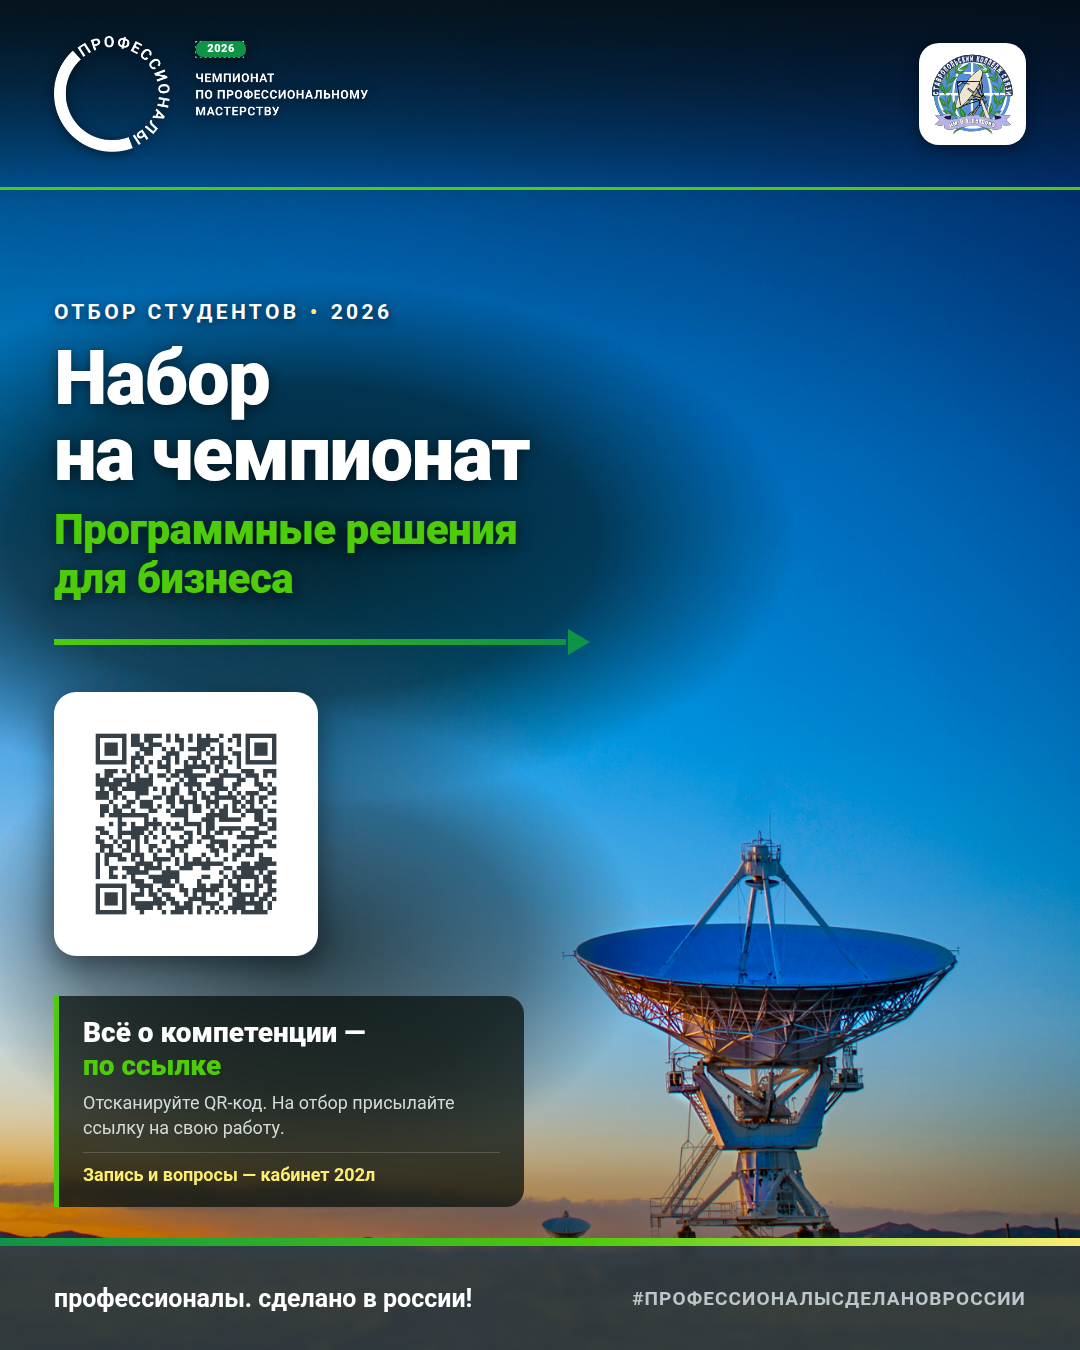
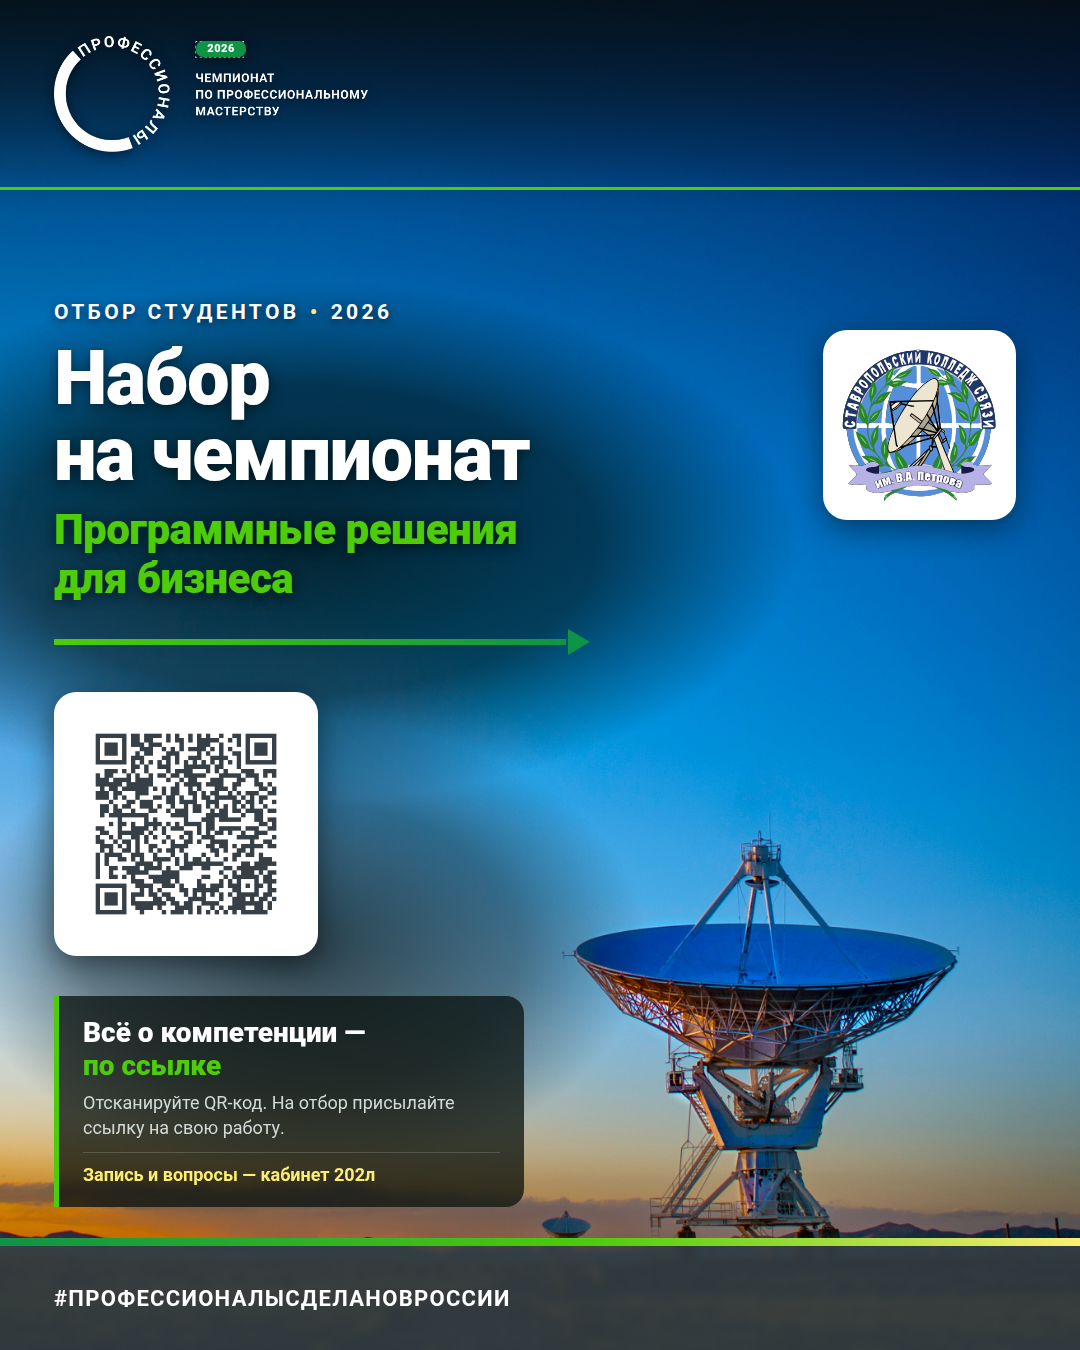
fix(poster): слоган без дубля, логотип колледжа в правую часть
- «сделано в россии» повторялось дважды: в слогане и внутри хэштега.
  Слоган убран, фраза осталась один раз — в #ПРОФЕССИОНАЛЫСДЕЛАНОВРОССИИ
- логотип колледжа вынесен из правого верхнего угла в свободную часть
  неба по центру-правее: плашка 160 px логотипа вместо 84 px, на уровне
  заголовка. Знак стал вторым элементом композиции и читается —
  надпись «Ставропольский колледж связи им. В.А. Петрова» различима

diff --git a/post/poster.html b/post/poster.html
@@ -99,14 +99,17 @@
     font-size: 11px; font-weight: 900; letter-spacing: .5px;
     color: var(--white);
   }
-  .topbar .college-plate {
-    flex: none;
+  /* Логотип колледжа вынесен из шапки в правую часть полотна:
+     там свободное небо, знак становится вторым элементом композиции. */
+  .college-plate {
+    position: absolute; z-index: 5;
+    right: 64px; top: 330px;
     background: var(--white);
-    border-radius: 20px;
-    padding: 9px 11px;
-    box-shadow: 0 4px 16px rgba(0,0,0,.4);
+    border-radius: 24px;
+    padding: 15px 16px;
+    box-shadow: 0 8px 30px rgba(0,0,0,.45);
   }
-  .topbar .college-plate img { height: 84px; width: auto; display: block; }
+  .college-plate img { height: 160px; width: auto; display: block; }
 
   /* ---------- Заголовок ---------- */
   .content {
@@ -190,11 +193,12 @@
     height: 104px;
     display: flex; align-items: center; justify-content: space-between;
     padding: 0 54px;
+    justify-content: flex-start;
     background: rgba(54, 64, 70, .86);
     backdrop-filter: blur(3px);
   }
-  .slogan { font-size: 25px; font-weight: 700; }
-  .fright .tag { font-size: 19px; font-weight: 700; letter-spacing: 1.1px; color: var(--grey); }
+  /* «сделано в россии» остаётся один раз — в хэштеге */
+  .fright .tag { font-size: 22px; font-weight: 700; letter-spacing: 1.3px; color: var(--white); }
   .accentbar {
     position: absolute; z-index: 6;
     left: 0; right: 0; bottom: 104px;
@@ -217,9 +221,10 @@
            alt="Чемпионат по профессиональному мастерству «Профессионалы»">
       <span class="champ-year">2026</span>
     </div>
-    <div class="college-plate">
-      <img src="../assets/college_logo.svg" alt="Ставропольский колледж связи им. В.А. Петрова">
-    </div>
+  </div>
+
+  <div class="college-plate">
+    <img src="../assets/college_logo.svg" alt="Ставропольский колледж связи им. В.А. Петрова">
   </div>
 
   <div class="content">
@@ -240,7 +245,6 @@
   </div>
 
   <div class="footer">
-    <div class="slogan">профессионалы. сделано в россии!</div>
     <div class="fright">
       <div class="tag">#ПРОФЕССИОНАЛЫСДЕЛАНОВРОССИИ</div>
     </div>
